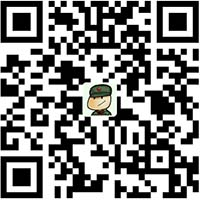
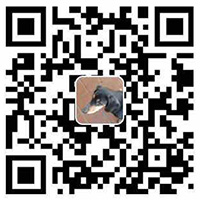
Site updated: 2018-03-10 22:31:15

diff --git a/2018/03/10/My-First-Post/index.html b/2018/03/10/My-First-Post/index.html
@@ -6,7 +6,7 @@
   <title>My First Post | Skylha&#39;s house</title>
   <meta name="viewport" content="width=device-width, initial-scale=1, maximum-scale=1">
   
-    <meta name="keywords" content="Skylha's HOuse" />
+    <meta name="keywords" content="Skylha's House" />
   
   <meta name="description" content="专注游戏学习博客">
 <meta name="keywords" content="hello,world">
@@ -91,17 +91,11 @@
             <nav class="header-nav">
                 <div class="social">
                     
-                        <a title="MinHow" target="_blank" href="//minhow.com">
+                        <a title="Skylha" target="_blank" href="//skylha.me">
                             <i class="fa fa-home fa-2x"></i></a>
                     
-                        <a title="Github" target="_blank" href="//github.com/wongminho">
+                        <a title="Github" target="_blank" href="//github.com/skylha">
                             <i class="fa fa-github fa-2x"></i></a>
-                    
-                        <a title="Weibo" target="_blank" href="//weibo.com/WongMinHo">
-                            <i class="fa fa-weibo fa-2x"></i></a>
-                    
-                        <a title="Twitter" target="_blank" href="//twitter.com/huangminhow">
-                            <i class="fa fa-twitter fa-2x"></i></a>
                     
                 </div>
             </nav>
@@ -169,11 +163,11 @@
     <div class="reward-content">
         
         <div class="reward-code">
-            <img id="rewardCode" src="/images/wechat_code.jpg" alt="打赏二维码">
+            <img id="rewardCode" src="/images/wechat_code.png" alt="打赏二维码">
         </div>
         <div class="reward-select">
             
-            <label class="reward-select-item checked" data-id="wechat" data-wechat="/images/wechat_code.jpg">
+            <label class="reward-select-item checked" data-id="wechat" data-wechat="/images/wechat_code.png">
                 <img class="reward-select-item-wechat" src="/images/wechat.png" alt="微信">
             </label>
             

diff --git a/2018/03/10/博客名字/index.html b/2018/03/10/博客名字/index.html
@@ -6,7 +6,7 @@
   <title>博客名字 | Skylha&#39;s house</title>
   <meta name="viewport" content="width=device-width, initial-scale=1, maximum-scale=1">
   
-    <meta name="keywords" content="Skylha's HOuse" />
+    <meta name="keywords" content="Skylha's House" />
   
   <meta name="description" content="专注游戏学习博客">
 <meta name="keywords" content="hello,world">
@@ -91,17 +91,11 @@
             <nav class="header-nav">
                 <div class="social">
                     
-                        <a title="MinHow" target="_blank" href="//minhow.com">
+                        <a title="Skylha" target="_blank" href="//skylha.me">
                             <i class="fa fa-home fa-2x"></i></a>
                     
-                        <a title="Github" target="_blank" href="//github.com/wongminho">
+                        <a title="Github" target="_blank" href="//github.com/skylha">
                             <i class="fa fa-github fa-2x"></i></a>
-                    
-                        <a title="Weibo" target="_blank" href="//weibo.com/WongMinHo">
-                            <i class="fa fa-weibo fa-2x"></i></a>
-                    
-                        <a title="Twitter" target="_blank" href="//twitter.com/huangminhow">
-                            <i class="fa fa-twitter fa-2x"></i></a>
                     
                 </div>
             </nav>
@@ -169,11 +163,11 @@
     <div class="reward-content">
         
         <div class="reward-code">
-            <img id="rewardCode" src="/images/wechat_code.jpg" alt="打赏二维码">
+            <img id="rewardCode" src="/images/wechat_code.png" alt="打赏二维码">
         </div>
         <div class="reward-select">
             
-            <label class="reward-select-item checked" data-id="wechat" data-wechat="/images/wechat_code.jpg">
+            <label class="reward-select-item checked" data-id="wechat" data-wechat="/images/wechat_code.png">
                 <img class="reward-select-item-wechat" src="/images/wechat.png" alt="微信">
             </label>
             

diff --git a/tags/hello-world/index.html b/tags/hello-world/index.html
@@ -3,10 +3,10 @@
 <head>
   <meta charset="utf-8">
   
-  <title>Tag: hello,world | Skylha&#39;s house</title>
+  <title>Label: hello,world | Skylha&#39;s house</title>
   <meta name="viewport" content="width=device-width, initial-scale=1, maximum-scale=1">
   
-    <meta name="keywords" content="Skylha's HOuse" />
+    <meta name="keywords" content="Skylha's House" />
   
   <meta name="description" content="专注游戏学习博客">
 <meta property="og:type" content="website">
@@ -89,17 +89,11 @@
             <nav class="header-nav">
                 <div class="social">
                     
-                        <a title="MinHow" target="_blank" href="//minhow.com">
+                        <a title="Skylha" target="_blank" href="//skylha.me">
                             <i class="fa fa-home fa-2x"></i></a>
                     
-                        <a title="Github" target="_blank" href="//github.com/wongminho">
+                        <a title="Github" target="_blank" href="//github.com/skylha">
                             <i class="fa fa-github fa-2x"></i></a>
-                    
-                        <a title="Weibo" target="_blank" href="//weibo.com/WongMinHo">
-                            <i class="fa fa-weibo fa-2x"></i></a>
-                    
-                        <a title="Twitter" target="_blank" href="//twitter.com/huangminhow">
-                            <i class="fa fa-twitter fa-2x"></i></a>
                     
                 </div>
             </nav>

diff --git a/archives/2018/03/index.html b/archives/2018/03/index.html
@@ -3,10 +3,10 @@
 <head>
   <meta charset="utf-8">
   
-  <title>Archives: 2018/3 | Skylha&#39;s house</title>
+  <title>Archieven: 2018/3 | Skylha&#39;s house</title>
   <meta name="viewport" content="width=device-width, initial-scale=1, maximum-scale=1">
   
-    <meta name="keywords" content="Skylha's HOuse" />
+    <meta name="keywords" content="Skylha's House" />
   
   <meta name="description" content="专注游戏学习博客">
 <meta property="og:type" content="website">
@@ -89,17 +89,11 @@
             <nav class="header-nav">
                 <div class="social">
                     
-                        <a title="MinHow" target="_blank" href="//minhow.com">
+                        <a title="Skylha" target="_blank" href="//skylha.me">
                             <i class="fa fa-home fa-2x"></i></a>
                     
-                        <a title="Github" target="_blank" href="//github.com/wongminho">
+                        <a title="Github" target="_blank" href="//github.com/skylha">
                             <i class="fa fa-github fa-2x"></i></a>
-                    
-                        <a title="Weibo" target="_blank" href="//weibo.com/WongMinHo">
-                            <i class="fa fa-weibo fa-2x"></i></a>
-                    
-                        <a title="Twitter" target="_blank" href="//twitter.com/huangminhow">
-                            <i class="fa fa-twitter fa-2x"></i></a>
                     
                 </div>
             </nav>

diff --git a/archives/2018/index.html b/archives/2018/index.html
@@ -3,10 +3,10 @@
 <head>
   <meta charset="utf-8">
   
-  <title>Archives: 2018 | Skylha&#39;s house</title>
+  <title>Archieven: 2018 | Skylha&#39;s house</title>
   <meta name="viewport" content="width=device-width, initial-scale=1, maximum-scale=1">
   
-    <meta name="keywords" content="Skylha's HOuse" />
+    <meta name="keywords" content="Skylha's House" />
   
   <meta name="description" content="专注游戏学习博客">
 <meta property="og:type" content="website">
@@ -89,17 +89,11 @@
             <nav class="header-nav">
                 <div class="social">
                     
-                        <a title="MinHow" target="_blank" href="//minhow.com">
+                        <a title="Skylha" target="_blank" href="//skylha.me">
                             <i class="fa fa-home fa-2x"></i></a>
                     
-                        <a title="Github" target="_blank" href="//github.com/wongminho">
+                        <a title="Github" target="_blank" href="//github.com/skylha">
                             <i class="fa fa-github fa-2x"></i></a>
-                    
-                        <a title="Weibo" target="_blank" href="//weibo.com/WongMinHo">
-                            <i class="fa fa-weibo fa-2x"></i></a>
-                    
-                        <a title="Twitter" target="_blank" href="//twitter.com/huangminhow">
-                            <i class="fa fa-twitter fa-2x"></i></a>
                     
                 </div>
             </nav>

diff --git a/archives/index.html b/archives/index.html
@@ -3,10 +3,10 @@
 <head>
   <meta charset="utf-8">
   
-  <title>Archives | Skylha&#39;s house</title>
+  <title>Archieven | Skylha&#39;s house</title>
   <meta name="viewport" content="width=device-width, initial-scale=1, maximum-scale=1">
   
-    <meta name="keywords" content="Skylha's HOuse" />
+    <meta name="keywords" content="Skylha's House" />
   
   <meta name="description" content="专注游戏学习博客">
 <meta property="og:type" content="website">
@@ -89,17 +89,11 @@
             <nav class="header-nav">
                 <div class="social">
                     
-                        <a title="MinHow" target="_blank" href="//minhow.com">
+                        <a title="Skylha" target="_blank" href="//skylha.me">
                             <i class="fa fa-home fa-2x"></i></a>
                     
-                        <a title="Github" target="_blank" href="//github.com/wongminho">
+                        <a title="Github" target="_blank" href="//github.com/skylha">
                             <i class="fa fa-github fa-2x"></i></a>
-                    
-                        <a title="Weibo" target="_blank" href="//weibo.com/WongMinHo">
-                            <i class="fa fa-weibo fa-2x"></i></a>
-                    
-                        <a title="Twitter" target="_blank" href="//twitter.com/huangminhow">
-                            <i class="fa fa-twitter fa-2x"></i></a>
                     
                 </div>
             </nav>

diff --git a/index.html b/index.html
@@ -6,7 +6,7 @@
   <title>Skylha&#39;s house</title>
   <meta name="viewport" content="width=device-width, initial-scale=1, maximum-scale=1">
   
-    <meta name="keywords" content="Skylha's HOuse" />
+    <meta name="keywords" content="Skylha's House" />
   
   <meta name="description" content="专注游戏学习博客">
 <meta property="og:type" content="website">
@@ -89,17 +89,11 @@
             <nav class="header-nav">
                 <div class="social">
                     
-                        <a title="MinHow" target="_blank" href="//minhow.com">
+                        <a title="Skylha" target="_blank" href="//skylha.me">
                             <i class="fa fa-home fa-2x"></i></a>
                     
-                        <a title="Github" target="_blank" href="//github.com/wongminho">
+                        <a title="Github" target="_blank" href="//github.com/skylha">
                             <i class="fa fa-github fa-2x"></i></a>
-                    
-                        <a title="Weibo" target="_blank" href="//weibo.com/WongMinHo">
-                            <i class="fa fa-weibo fa-2x"></i></a>
-                    
-                        <a title="Twitter" target="_blank" href="//twitter.com/huangminhow">
-                            <i class="fa fa-twitter fa-2x"></i></a>
                     
                 </div>
             </nav>
